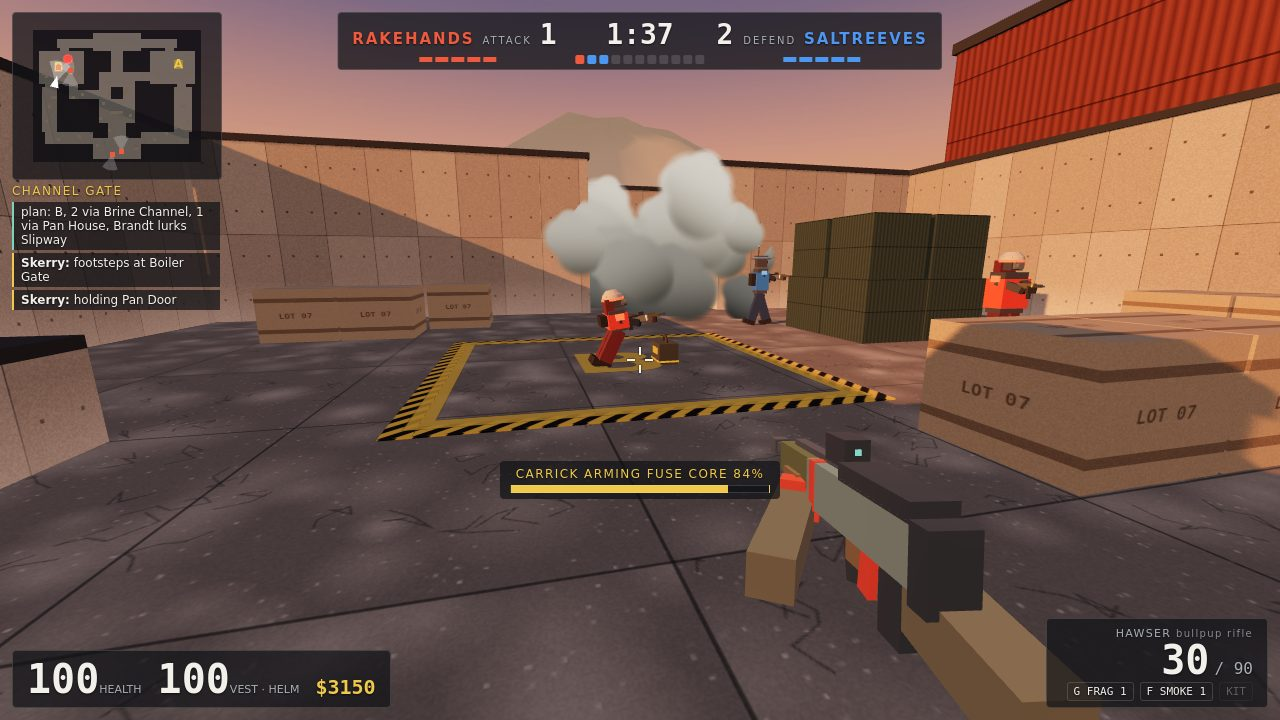
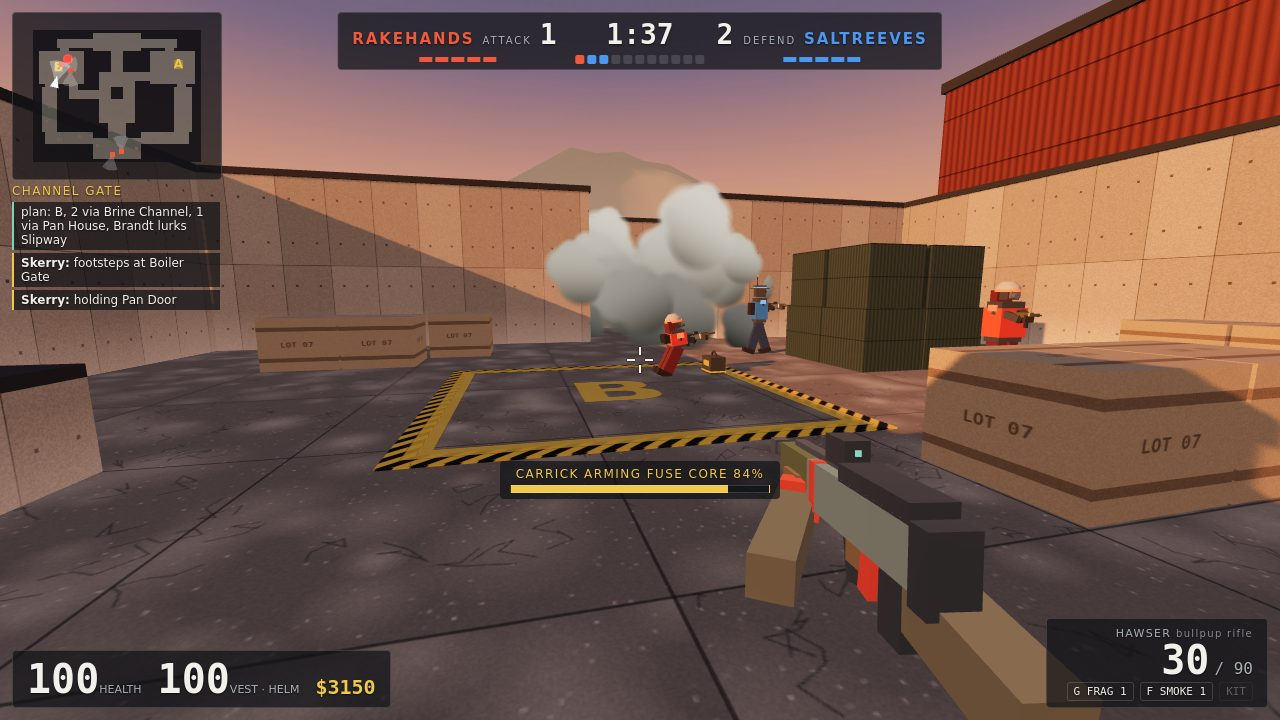
Shot 3: Carrick arms beside the B, so the site letter reads under the crosshair
He kneels at the pad's north-east cell with the case; the camera tilts up a little so the B,
the case, the smoke and the Saltreeve sit above the plate. Fresh screenshots.

diff --git a/tools/stage.js b/tools/stage.js
@@ -35,10 +35,10 @@ const SCENES = {
   // Arming on B: a teammate arms the Fuse Core on the pad while the player covers from behind; the smoke
   // closes Boiler Gate 12 m out, a Saltreeve works round its edge, a teammate holds Pan Door.
   3: { side: 0, round: 4, clock: 97, core: 'm0', hide: ['hint'], ticks: 40, smoke: [10.5, 6.6],
-    cast: [['p', 7, 17, 9, 8, 'hawser'], ['m0', 8, 12, 12, 12, 'hawser'], ['m1', 12, 13, 13, 19, 'skiff'], ['f0', 12, 8, 8, 13, 'hawser']],
+    cast: [['p', 7, 17, 9, 8, 'hawser'], ['m0', 9, 11, 12, 11, 'hawser'], ['m1', 12, 13, 13, 19, 'skiff'], ['f0', 12, 8, 8, 13, 'hawser']],
     radio: [['m1', 'holding Pan Door'], ['m1', 'footsteps at Boiler Gate']],
     fire: [['f0', 4]], // he has the player in his sights but will not fire inside the scene
-    script(i, s) { s.aim(null, -0.2, 9, 9); } },
+    script(i, s) { s.aim(null, -0.14, 9, 9); } },
   // A retake of A won by a teammate's disarm with the kit, 2.7 m ahead, looking south down the lane past the
   // pad over two downed Saltreeves: the window turns teal, the banner names the disarm; the match goes on.
   4: { side: 1, round: 7, clock: 95, core: 'armed', site: 'A', ticks: 234, end: 0.017, dead: ['f0', 'f1'],
